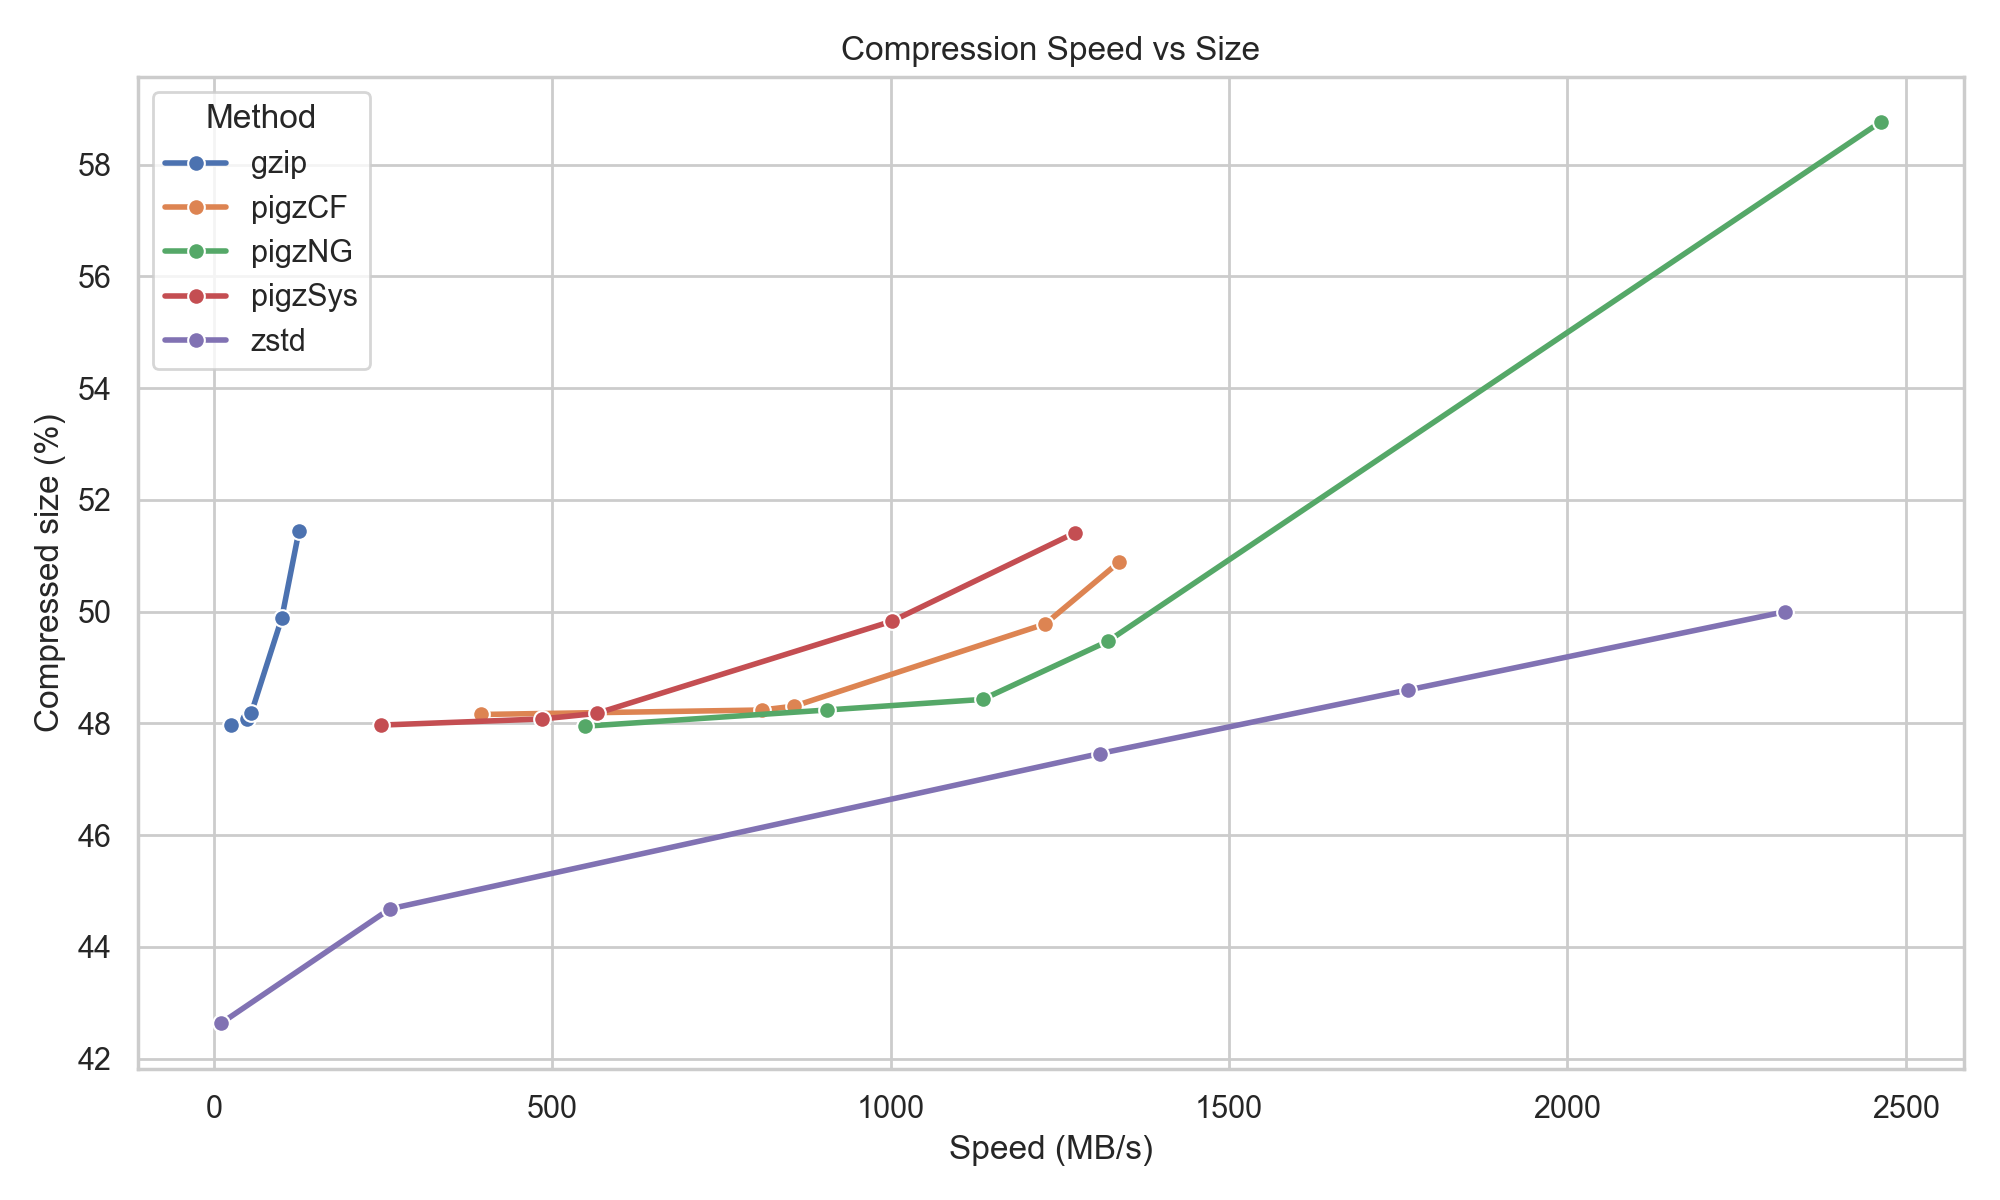
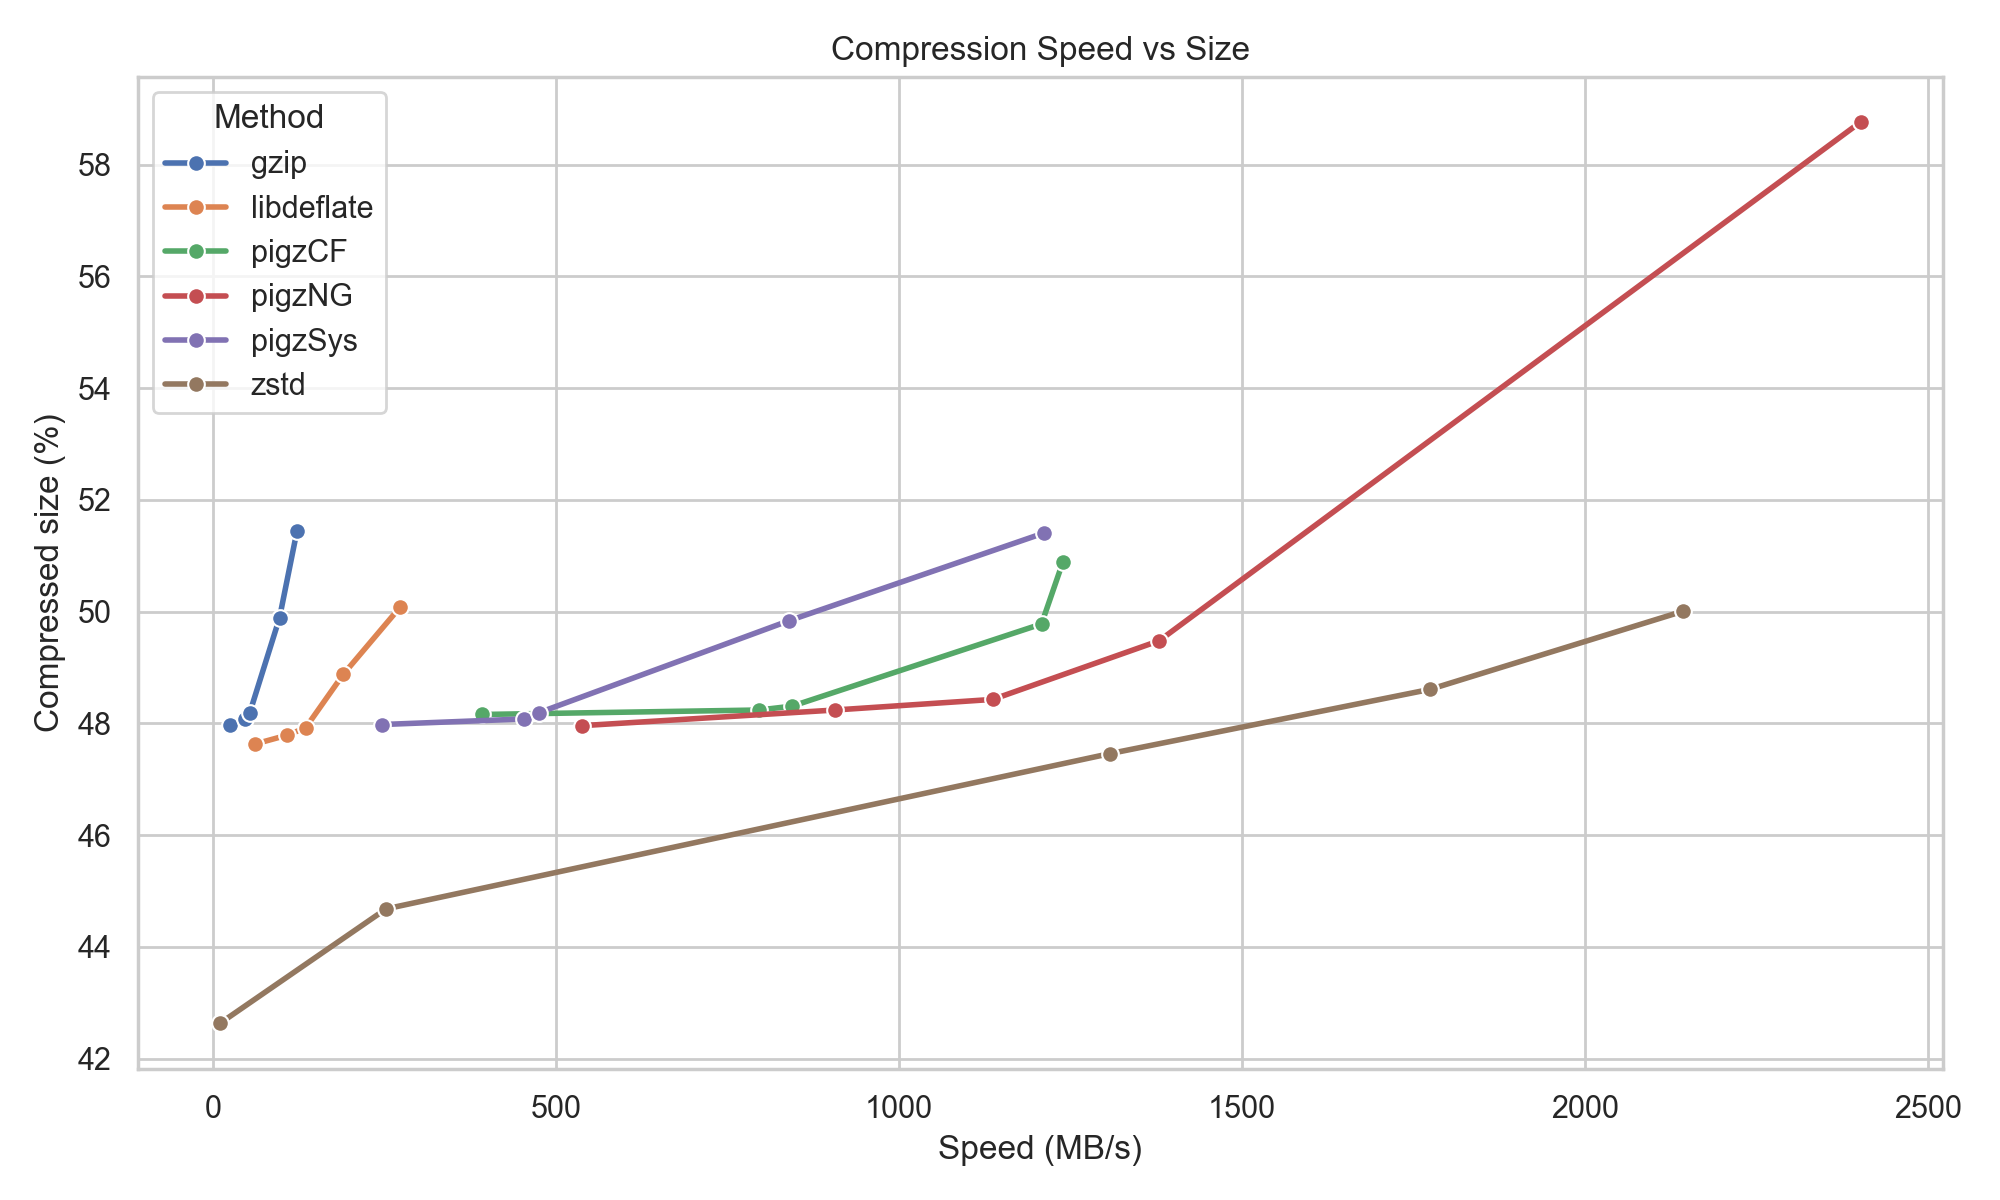
Add libdeflate

diff --git a/compile_pigz.py b/compile_pigz.py
@@ -49,6 +49,72 @@ def copy_tree_find(src_root: Path, pattern: str, dest_dir: Path):
             shutil.copy2(p, dest_dir)
     print(f"Copied {len(found)} files matching {pattern}")
 
+def build_and_copy_libdeflate(basedir: Path, exedir: Path, optimize: bool = False):
+    """
+    Clone libdeflate, build with CMake Release, and copy libdeflate-gzip -> exe/libdeflate (or .exe on Windows).
+    """
+    repo_dir = basedir / "libdeflate"
+    build_dir = repo_dir / "build"
+    # Remove existing clone to ensure fresh build
+    rm_rf(repo_dir)
+
+    print("Cloning libdeflate...")
+    run(["git", "clone", "https://github.com/ebiggers/libdeflate.git"], cwd=str(basedir))
+
+    # Ensure build dir exists
+    if build_dir.exists():
+        rm_rf(build_dir)
+    build_dir.mkdir(parents=True, exist_ok=True)
+
+    # Configure step: use Release and forward optional knobs similar to pigz script
+    cmake_cmd = ["cmake", "-DCMAKE_BUILD_TYPE=Release", ".."]
+    if optimize:
+        # If your top-level CMake supports these options, enable them for libdeflate as well.
+        # (These flags will be ignored if libdeflate CMakeLists.txt doesn't define them.)
+        cmake_cmd.insert(1, "-DENABLE_LTO=ON")
+        cmake_cmd.insert(1, "-DTUNE_NATIVE=ON")
+
+    print(f"> Configuring libdeflate: {' '.join(cmake_cmd)} (cwd={build_dir})")
+    run(cmake_cmd, cwd=str(build_dir))
+
+    # Build step
+    print("> Building libdeflate...")
+    run(["cmake", "--build", str(build_dir), "--config", "Release"], cwd=str(repo_dir))
+
+    # Program path: build/programs/libdeflate-gzip (or libdeflate-gzip.exe)
+    prog_dir = build_dir / "programs"
+    # Accept either exact name or platform-suffixed
+    exe_suffix = ".exe" if os.name == "nt" else ""
+    candidates = [
+        prog_dir / f"libdeflate-gzip{exe_suffix}",
+        prog_dir / f"libdeflate_gzip{exe_suffix}",
+    ]
+    found = None
+    for c in candidates:
+        if c.exists():
+            found = c
+            break
+    # Fallback: try glob for anything starting with libdeflate-gzip
+    if found is None and prog_dir.exists():
+        for p in prog_dir.iterdir():
+            if p.is_file() and p.name.startswith("libdeflate-gzip"):
+                found = p
+                break
+
+    if not found:
+        raise RuntimeError(f"Could not find built libdeflate-gzip executable in {prog_dir}")
+
+    # Destination path: ./exe/libdeflate (preserve .exe on Windows)
+    dest_name = "libdeflate.exe" if os.name == "nt" else "libdeflate"
+    dest_path = exedir / dest_name
+    ensure_dir(exedir)
+    print(f"Copying {found} -> {dest_path}")
+    shutil.copy2(str(found), str(dest_path))
+    if os.name != "nt":
+        dest_path.chmod(0o755)
+    print("libdeflate installed to", dest_path)
+    rm_rf(repo_dir)
+
 def main():
     try:
         parser = argparse.ArgumentParser(description="Compile pigz variants")
@@ -137,7 +203,9 @@ def main():
         # cleanup pigz source tree
         print("Cleaning up pigz source directory...")
         rm_rf(pigz_dir)
-
+        # libdeflate
+        print("Building libdeflate and copying its gzip program to ./exe/")
+        build_and_copy_libdeflate(basedir, exedir, optimize=args.optimize)
         print("Success: run 'compress_bench.py' and 'decompress_bench.py'")
 
     except subprocess.CalledProcessError as e:

diff --git a/decompress_bench.py b/decompress_bench.py
@@ -1,6 +1,6 @@
 #!/usr/bin/env python3
 """
-decompress_perfile_bench.py
+decompress_bench.py
 
 Per-file compression + decompression benchmark.
 
@@ -14,8 +14,8 @@ Per-file compression + decompression benchmark.
 - Writes a TSV with columns: method\tmb_s and prints a Markdown table.
 
 Usage:
-    python3 decompress_perfile_bench.py
-    python3 decompress_perfile_bench.py --exe-dir ./exe --levels 1 3 9 --zstd-levels 1 3 19 --nruns 5
+    python3 decompress_bench.py
+    python3 decompress_bench.py --exe-dir ./exe --levels 1 3 9 --zstd-levels 1 3 19 --nruns 5
 """
 from pathlib import Path
 import argparse

diff --git a/README.MD b/README.MD
@@ -6,24 +6,24 @@ These simple scripts benchmark different zlib compression methods for the [gzip 
 
 Two methods can be used to enhance GZip files. First, [pigz](https://zlib.net/pigz/) uses parallel compression can use multiple cores available with modern computers to rapidly compress data. This technique can be combined with the [CloudFlare zlib](https://github.com/cloudflare/zlib) or [zlib-ng](https://github.com/zlib-ng/zlib-ng) which accelerate compression using other features of modern hardware.
 
+Alternatively, [libdeflate](https://github.com/ebiggers/libdeflate) provides exceptional single threaded performance for the zlib format. It also provides superior file compression (with levels up to `12`). However, unlike cloudflare and zlib-ng, it does not support multiple threads, nor is the API directly compatible with zlib.
+
 ## Example Results
 
 Here is the performance of different variations of pigz for compressing files for an Apple MacBook with an M4 Pro CPU. The graph also shows the performance of the single threaded gzip provided by Apple as well as the modern [zstd v1.5.7](https://github.com/facebook/zstd).
 
 ![results](results.png)
 
-ChatGPT said:
-
 We can also compare decompression speed, which is generally faster than compression. However, GZip decompression cannot take advantage of multiple CPU threads. In this benchmark, all GZip tools and compression levels are used to generate a single shared set of compressed files, which are then decompressed by each tool. This approach ensures a fair comparison, since higher compression levels often use more complex algorithms, and we want every decompressor to be tested on the same input data.
 
-| method  | mb_s    |
-| ------- | ------- |
-| gzip    |  922.71 |
-| pigzCF  |  472.53 |
-| pigzNG  |  479.54 |
-| pigzSys |  848.73 |
-| zstd    | 1196.30 |
-
+| method | mb_s |
+| ------- | -----:|
+| gzip | 924.95 |
+| libdeflate | 1027.43 |
+| pigzCF | 474.75 |
+| pigzNG | 478.19 |
+| pigzSys | 845.90 |
+| zstd | 1198.79 |
 
 ## Replicating
 
@@ -43,4 +43,3 @@ python decompress_bench.py
 
  - Python users may want to examine [mgzip](https://pypi.org/project/mgzip/). Like pigz, mgzip can compress files to gz format in parallel. However, it can also decompress files created with mgzip in parallel. The gz files created by mgzip are completely valid gzip files, so they can be decompressed by any gzip compatible tool. However, these files require a tiny bit more disk space which allows parallel blocked decompression (as long as you use mgzip to do the decompression). For optimal performance, one should set a `blocksize` that correspnds to the number of threads for compression. This repository includes the `test_mgzip.py` script to evaluate this tool.
  - Python users can use [indexed-gzip](https://pypi.org/project/indexed-gzip/) to generate an index file for any gzip file. This index file accelerates random access to a gzip file.
- - Not evaluated here, but [libdeflate](https://github.com/ebiggers/libdeflate) provides high performance compression and decompression for gz files (though the API is not a drop in replacement).
